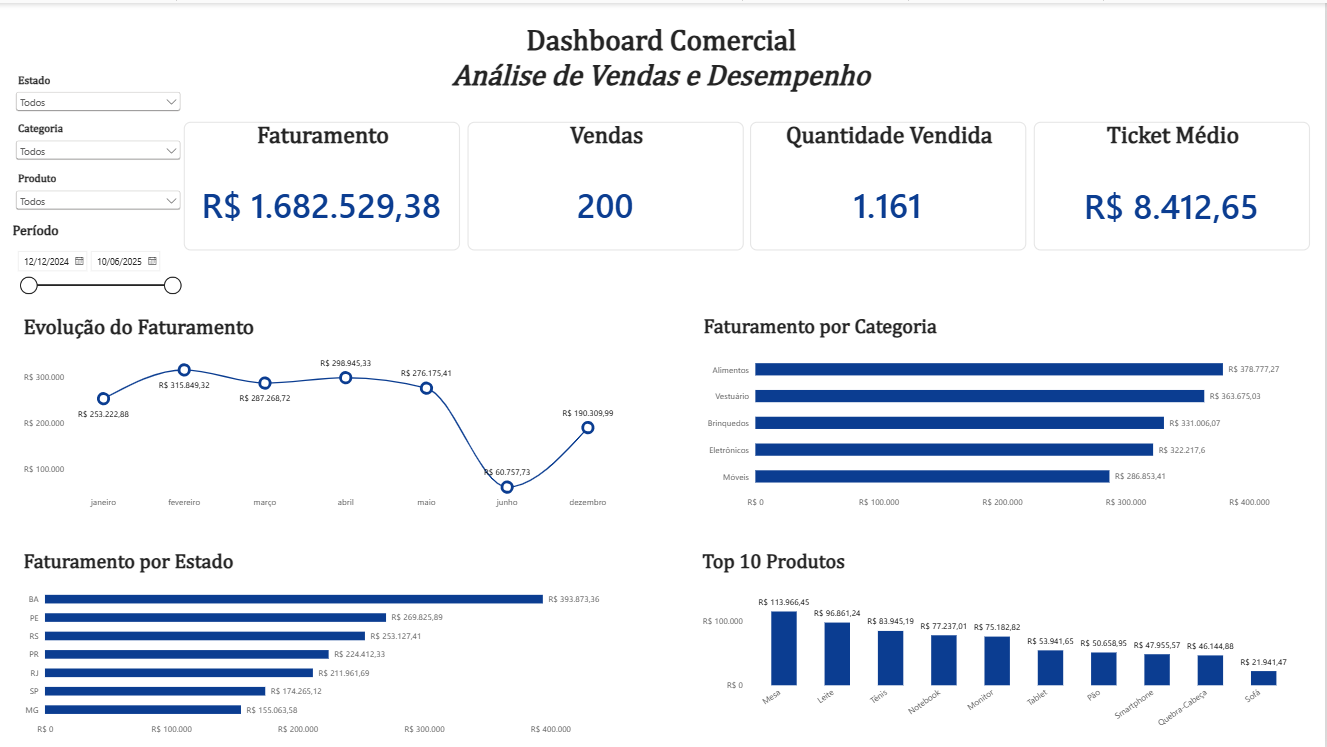
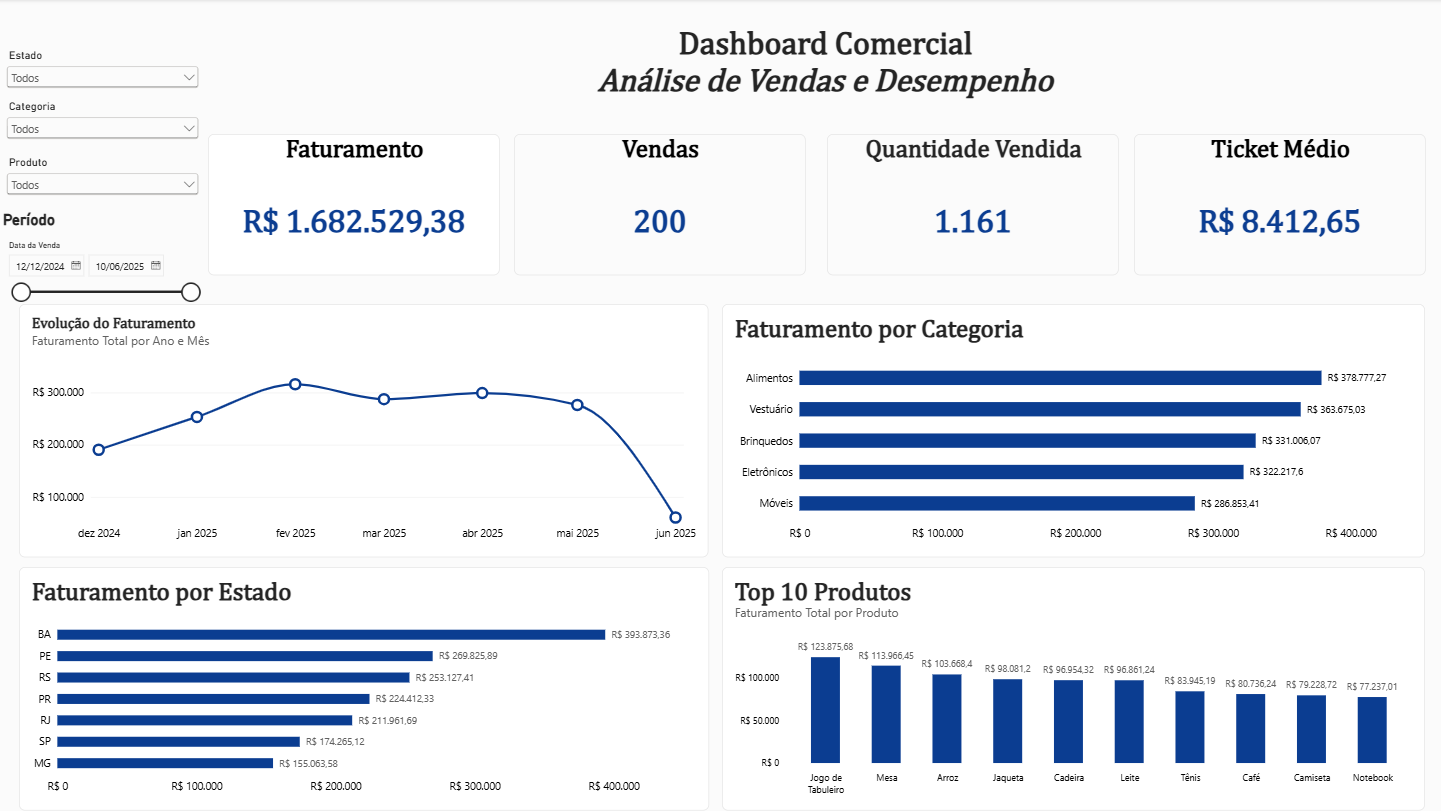
Add files via upload

diff --git a/projeto-01/projeto-01-dashboard-comercial.html b/projeto-01/projeto-01-dashboard-comercial.html
@@ -8,7 +8,7 @@
 :root{--navy:#0b1f3a;--blue:#1557a6;--muted:#657085;--line:#e6ebf2;--bg:#f7f9fc}
 *{box-sizing:border-box}html{scroll-behavior:smooth}body{margin:0;font-family:Segoe UI,Arial,sans-serif;color:#172033;background:var(--bg);line-height:1.6}
 .container{width:min(1120px,92%);margin:auto}.nav{position:sticky;top:0;z-index:5;background:#fffffff2;border-bottom:1px solid var(--line)}
-.navin{height:68px;display:flex;align-items:center;justify-content:space-between}.brand{font-weight:800;color:var(--navy);letter-spacing:.04em;text-decoration:none}.links{display:flex;gap:22px;font-size:.92rem}.links a{color:var(--muted);text-decoration:none;transition:color .2s ease}.links a:hover,.links a:focus-visible{color:var(--blue)}
+.navin{height:68px;display:flex;align-items:center;justify-content:space-between}.brand{font-weight:800;color:var(--navy);letter-spacing:.04em;text-decoration:none}.links{display:flex;gap:22px;font-size:.92rem}.menu-toggle{display:none;border:1px solid var(--line);background:#fff;color:var(--navy);width:44px;height:44px;border-radius:10px;font-size:1.3rem;cursor:pointer}.mobile-menu{display:none}.links a{color:var(--muted);text-decoration:none;transition:color .2s ease}.links a:hover,.links a:focus-visible{color:var(--blue)}
 .hero{padding:88px 0 65px;background:linear-gradient(180deg,#fff,#f7f9fc)}.ey{color:var(--blue);font-size:.78rem;font-weight:800;letter-spacing:.12em}
 h1{font-size:clamp(2.7rem,6vw,4.8rem);line-height:1.02;letter-spacing:-.05em;color:var(--navy);margin:14px 0}
 .hero p,.lead{max-width:760px;color:var(--muted);font-size:1.08rem}.btn{display:inline-block;padding:12px 18px;border-radius:10px;text-decoration:none;font-weight:700;border:1px solid var(--line);margin:18px 8px 0 0}.primary{background:var(--navy);color:#fff;border-color:var(--navy)}
@@ -17,17 +17,17 @@ section{padding:68px 0}.kicker{color:var(--blue);font-size:.78rem;font-weight:80
 .metrics{display:grid;grid-template-columns:repeat(4,1fr);gap:14px;margin-top:24px}.metric small{color:var(--muted)}.value{font-size:1.7rem;font-weight:850;color:var(--blue)}
 .visual{background:#fff;border:1px solid var(--line);border-radius:18px;padding:10px;margin-top:25px}.visual img{width:100%;display:block;border-radius:10px}
 .insights{display:grid;grid-template-columns:repeat(2,1fr);gap:15px;margin-top:25px}.insight{background:#fff;border:1px solid var(--line);border-left:4px solid #1687e8;border-radius:12px;padding:19px}.tags{display:flex;flex-wrap:wrap;gap:9px}.tag{background:#edf3fb;color:var(--navy);padding:8px 11px;border-radius:8px;font-weight:700;font-size:.85rem}
-footer{padding:30px 0;color:var(--muted)}@media(max-width:800px){.links{display:none}.grid,.metrics,.insights{grid-template-columns:1fr 1fr}}@media(max-width:560px){.grid,.metrics,.insights{grid-template-columns:1fr}section{padding:50px 0}}
+footer{padding:30px 0;color:var(--muted)}@media(max-width:800px){.links{display:none}.menu-toggle{display:inline-flex;align-items:center;justify-content:center}.navin{position:relative}.mobile-menu{position:absolute;top:68px;left:4%;right:4%;display:none;flex-direction:column;background:#fff;border:1px solid var(--line);border-radius:14px;padding:10px;box-shadow:0 18px 40px rgba(11,31,58,.12)}.mobile-menu.open{display:flex}.mobile-menu a{padding:12px 13px;color:var(--muted);text-decoration:none;font-weight:700;border-radius:9px}.mobile-menu a:hover{background:#f4f7fb;color:var(--blue)}.grid,.metrics,.insights{grid-template-columns:1fr 1fr}}@media(max-width:560px){.container{width:min(100% - 32px,1120px)}.navin{height:64px}.mobile-menu{top:64px}.hero{padding:66px 0 52px}.hero h1{font-size:clamp(2.7rem,15vw,4.2rem)}.hero p,.lead{font-size:1rem}.btn{display:flex;width:100%;justify-content:center;margin:14px 0 0;padding:13px 16px}section{padding:50px 0}h2{font-size:1.9rem}.card,.metric{padding:19px}.metrics .value{font-size:1.45rem}.visual{padding:6px;overflow:hidden}.visual img{min-width:0;height:auto}.tags{gap:7px}.tag{font-size:.78rem;padding:7px 9px}}
 </style>
 </head>
 <body>
-<nav class="nav"><div class="container navin"><a class="brand" href="../index.html">ADALBERTO SILVA</a><div class="links"><a href="../index.html">← Início</a><a href="#processo">Processo</a><a href="#dashboard">Dashboard</a><a href="#insights">Insights</a><a href="#stack">Tecnologias</a></div></div></nav>
+<nav class="nav"><div class="container navin"><a class="brand" href="../index.html">ADALBERTO SILVA</a><div class="links"><a href="../index.html">← Início</a><a href="#processo">Processo</a><a href="#dashboard">Dashboard</a><a href="#insights">Insights</a><a href="#stack">Tecnologias</a></div><button class="menu-toggle" id="menuToggle" aria-label="Abrir menu" aria-expanded="false" aria-controls="mobileMenu">☰</button><div class="mobile-menu" id="mobileMenu"><a href="../index.html">← Início</a><a href="#processo">Processo</a><a href="#dashboard">Dashboard</a><a href="#insights">Insights</a><a href="#stack">Tecnologias</a></div></div></nav>
 
 <header class="hero"><div class="container">
 <div class="ey">PROJETO 01 · DATA ANALYTICS</div>
 <h1>Dashboard<br>Comercial</h1>
 <p>Uma solução analítica desenvolvida para transformar dados de vendas em indicadores, análises interativas e insights de negócio usando Power BI, Excel, Power Query e DAX.</p>
-<a class="btn primary" href="#dashboard">Ver dashboard</a><a class="btn" href="#insights">Ver insights</a>
+<a class="btn primary" href="../dashboard-interativo.html">▶ Ver Dashboard Interativo</a><a class="btn" href="#dashboard">Ver dashboard</a><a class="btn" href="#insights">Ver insights</a>
 </div></header>
 
 <section><div class="container"><div class="kicker">O desafio</div><h2>De dados brutos a uma visão comercial clara</h2>
@@ -45,7 +45,7 @@ footer{padding:30px 0;color:var(--muted)}@media(max-width:800px){.links{display:
 </div></div></section>
 
 <section id="dashboard"><div class="container"><div class="kicker">Dashboard</div><h2>Análise de Vendas e Desempenho</h2>
-<p class="lead">A primeira página permite explorar os dados por Estado, Categoria, Produto e Período. Os indicadores e gráficos são recalculados dinamicamente pelos filtros.</p>
+<p class="lead">A primeira página permite explorar os dados por Estado, Categoria, Produto e Período. Os indicadores e gráficos são recalculados dinamicamente pelos filtros.</p><p><a class="btn primary" href="../dashboard-interativo.html">Abrir demo interativa →</a></p>
 <div class="visual"><img src="dashboard-comercial.png" alt="Dashboard Comercial em Power BI"></div></div></section>
 
 <section id="insights"><div class="container"><div class="kicker">Insights</div><h2>Principais descobertas</h2>
@@ -57,7 +57,7 @@ footer{padding:30px 0;color:var(--muted)}@media(max-width:800px){.links{display:
 </div>
 <div class="visual"><img src="insights-comerciais.png" alt="Página de Insights Comerciais"></div></div></section>
 
-<section id="stack"><div class="container"><div class="kicker">Stack</div><h2>Tecnologias utilizadas</h2><div class="tags"><span class="tag">Power BI</span><span class="tag">DAX</span><span class="tag">Power Query</span><span class="tag">Excel</span><span class="tag">Data Visualization</span><span class="tag">Análise de Dados</span></div></div></section>
+<section><div class="container"><div class="kicker">Resultado</div><h2>O que este projeto demonstra</h2><div class="grid"><div class="card"><h3>Leitura executiva</h3><p>Indicadores organizados para responder rapidamente onde está o faturamento e como ele se distribui.</p></div><div class="card"><h3>Modelagem analítica</h3><p>Preparação dos dados e criação de medidas para transformar registros em métricas comparáveis.</p></div><div class="card"><h3>Comunicação</h3><p>Dashboard e insights apresentados de forma visual para facilitar a tomada de decisão.</p></div></div></div></section><section id="stack"><div class="container"><div class="kicker">Stack</div><h2>Tecnologias utilizadas</h2><div class="tags"><span class="tag">Power BI</span><span class="tag">DAX</span><span class="tag">Power Query</span><span class="tag">Excel</span><span class="tag">Data Visualization</span><span class="tag">Análise de Dados</span></div></div></section>
 
 <footer><div class="container">© 2026 Adalberto Silva · Portfólio de Dados e TI</div></footer>
-</body></html>
+<script>const menuToggle=document.getElementById('menuToggle'),mobileMenu=document.getElementById('mobileMenu');menuToggle?.addEventListener('click',()=>{const open=mobileMenu.classList.toggle('open');menuToggle.setAttribute('aria-expanded',open?'true':'false');menuToggle.setAttribute('aria-label',open?'Fechar menu':'Abrir menu');menuToggle.textContent=open?'×':'☰'});mobileMenu?.querySelectorAll('a').forEach(a=>a.addEventListener('click',()=>{mobileMenu.classList.remove('open');menuToggle.setAttribute('aria-expanded','false');menuToggle.setAttribute('aria-label','Abrir menu');menuToggle.textContent='☰'}));</script></body></html>
